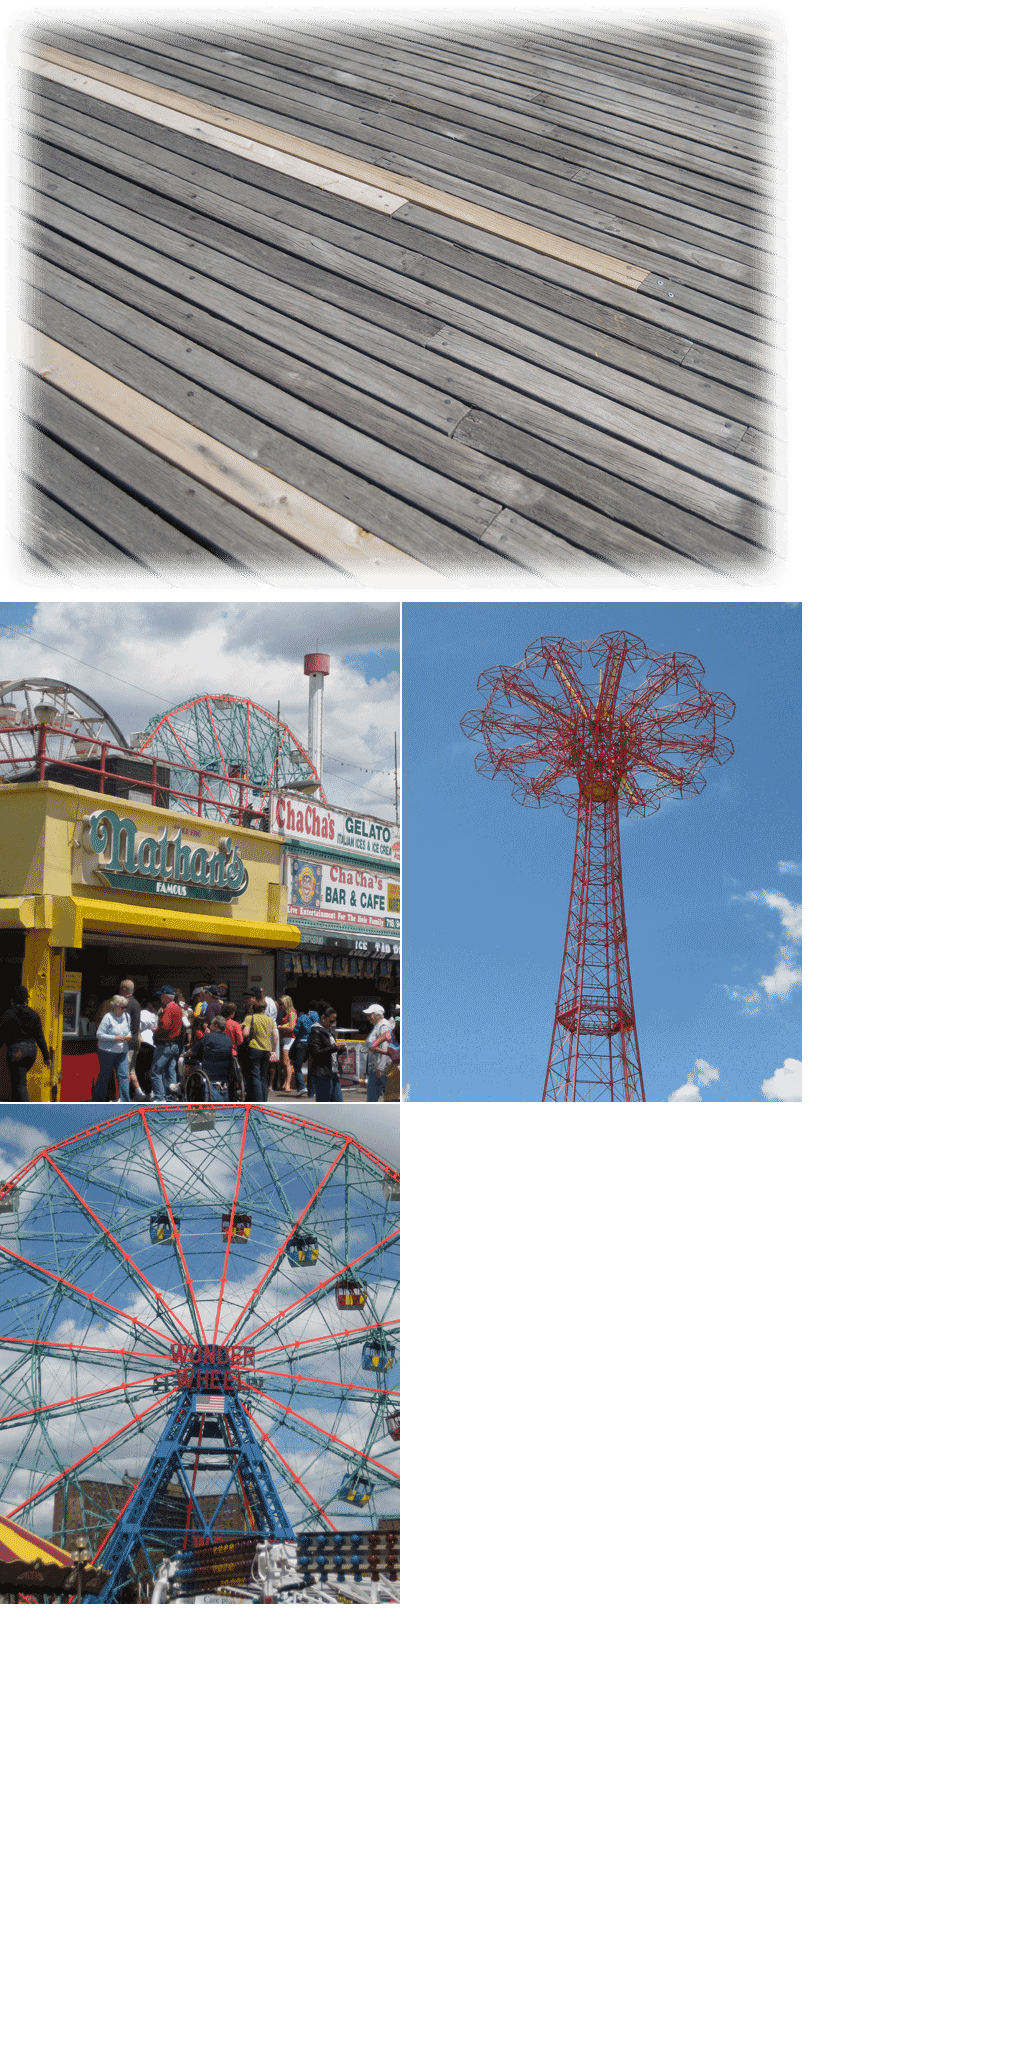
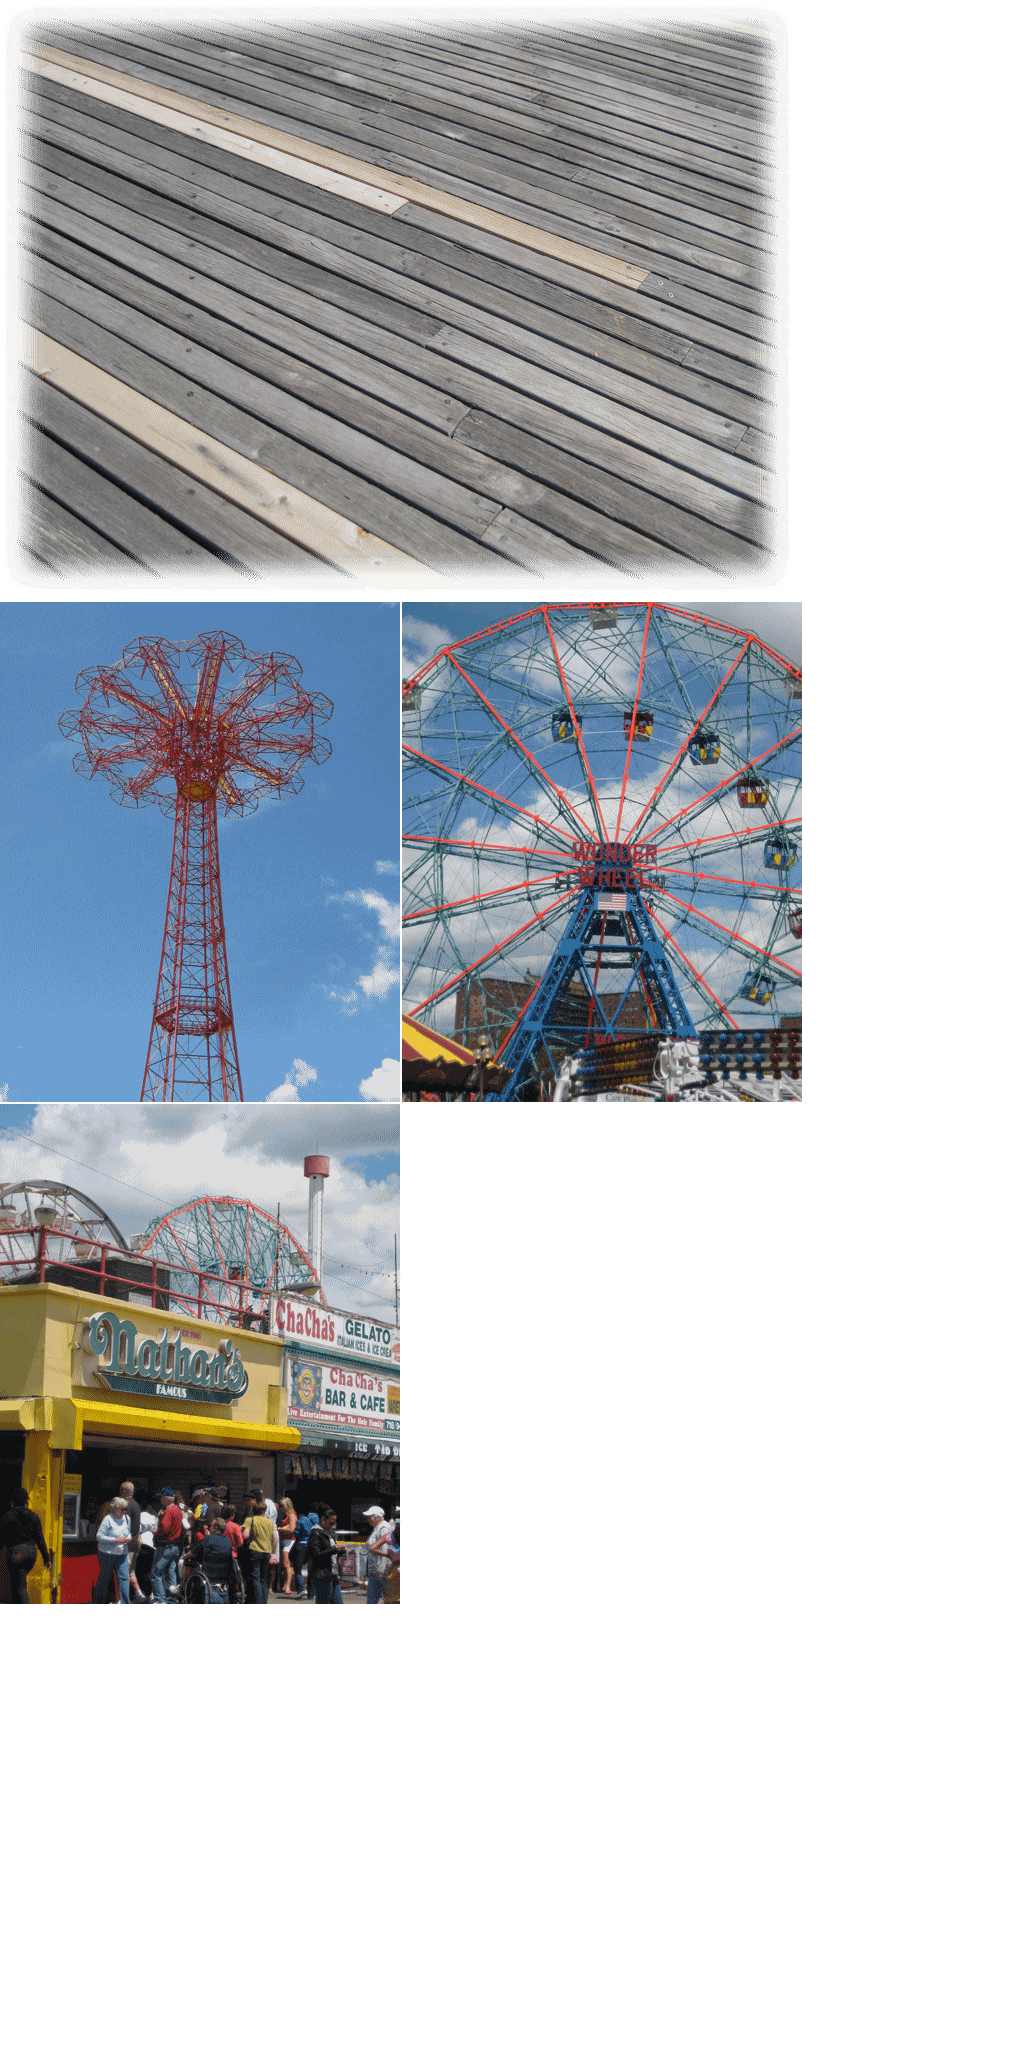
tinkering

diff --git a/Lesson01/01End/01End.js b/Lesson01/01End/01End.js
@@ -1,26 +1,72 @@
-(function (lib, img, cjs, ss) {
+(function (lib, img, cjs, ss, an) {
 
 var p; // shortcut to reference prototypes
-
-// library properties:
-lib.properties = {
-	width: 800,
-	height: 600,
-	fps: 24,
-	color: "#333333",
-	opacity: 1.00,
-	manifest: [
-		{src:"images/01End_atlas_.png?1467061092443", id:"01End_atlas_"}
-	]
-};
-
-
-
+lib.webFontTxtInst = {}; 
+var loadedTypekitCount = 0;
+var loadedGoogleCount = 0;
+var gFontsUpdateCacheList = [];
+var tFontsUpdateCacheList = [];
 lib.ssMetadata = [
-		{name:"01End_atlas_", frames: [[0,0,800,600],[402,602,400,500],[0,602,400,500],[0,1104,400,500]]}
+		{name:"01End_atlas_", frames: [[0,0,800,600],[0,602,400,500],[0,1104,400,500],[402,602,400,500]]}
 ];
 
 
+
+lib.updateListCache = function (cacheList) {		
+	for(var i = 0; i < cacheList.length; i++) {		
+		if(cacheList[i].cacheCanvas)		
+			cacheList[i].updateCache();		
+	}		
+};		
+
+lib.addElementsToCache = function (textInst, cacheList) {		
+	var cur = textInst;		
+	while(cur != exportRoot) {		
+		if(cacheList.indexOf(cur) != -1)		
+			break;		
+		cur = cur.parent;		
+	}		
+	if(cur != exportRoot) {		
+		var cur2 = textInst;		
+		var index = cacheList.indexOf(cur);		
+		while(cur2 != cur) {		
+			cacheList.splice(index, 0, cur2);		
+			cur2 = cur2.parent;		
+			index++;		
+		}		
+	}		
+	else {		
+		cur = textInst;		
+		while(cur != exportRoot) {		
+			cacheList.push(cur);		
+			cur = cur.parent;		
+		}		
+	}		
+};		
+
+lib.gfontAvailable = function(family, totalGoogleCount) {		
+	lib.properties.webfonts[family] = true;		
+	var txtInst = lib.webFontTxtInst && lib.webFontTxtInst[family] || [];		
+	for(var f = 0; f < txtInst.length; ++f)		
+		lib.addElementsToCache(txtInst[f], gFontsUpdateCacheList);		
+
+	loadedGoogleCount++;		
+	if(loadedGoogleCount == totalGoogleCount) {		
+		lib.updateListCache(gFontsUpdateCacheList);		
+	}		
+};		
+
+lib.tfontAvailable = function(family, totalTypekitCount) {		
+	lib.properties.webfonts[family] = true;		
+	var txtInst = lib.webFontTxtInst && lib.webFontTxtInst[family] || [];		
+	for(var f = 0; f < txtInst.length; ++f)		
+		lib.addElementsToCache(txtInst[f], tFontsUpdateCacheList);		
+
+	loadedTypekitCount++;		
+	if(loadedTypekitCount == totalTypekitCount) {		
+		lib.updateListCache(tFontsUpdateCacheList);		
+	}		
+};
 // symbols:
 
 
@@ -59,7 +105,7 @@ lib.ssMetadata = [
 
 	// stars
 	this.shape = new cjs.Shape();
[2 lines of base64/hex data omitted]
 	this.shape.setTransform(386.1,296.8);
 	this.shape._off = true;
 
@@ -67,6 +113,7 @@ lib.ssMetadata = [
 
 	// photo3
 	this.instance = new lib.photo3();
+	this.instance.parent = this;
 	this.instance.setTransform(360,79,1,1,-2);
 	this.instance._off = true;
 
@@ -74,6 +121,7 @@ lib.ssMetadata = [
 
 	// photo2
 	this.instance_1 = new lib.photo2();
+	this.instance_1.parent = this;
 	this.instance_1.setTransform(227.2,20.5,1,1,6);
 	this.instance_1._off = true;
 
@@ -81,17 +129,35 @@ lib.ssMetadata = [
 
 	// photo1
 	this.instance_2 = new lib.photo1();
+	this.instance_2.parent = this;
 	this.instance_2.setTransform(2.4,97.1,1,1,-12);
 
 	this.timeline.addTween(cjs.Tween.get(this.instance_2).wait(48));
 
 	// background
 	this.instance_3 = new lib.background();
+	this.instance_3.parent = this;
 
 	this.timeline.addTween(cjs.Tween.get(this.instance_3).wait(48));
 
 }).prototype = p = new cjs.MovieClip();
 p.nominalBounds = new cjs.Rectangle(400,300,800,600);
+// library properties:
+lib.properties = {
+	width: 800,
+	height: 600,
+	fps: 24,
+	color: "#333333",
+	opacity: 1.00,
+	webfonts: {},
+	manifest: [
+		{src:"images/01End_atlas_.png", id:"01End_atlas_"}
+	],
+	preloads: []
+};
 
-})(lib = lib||{}, images = images||{}, createjs = createjs||{}, ss = ss||{});
-var lib, images, createjs, ss;
+
+
+
+})(lib = lib||{}, images = images||{}, createjs = createjs||{}, ss = ss||{}, AdobeAn = AdobeAn||{});
+var lib, images, createjs, ss, AdobeAn;

diff --git a/Lesson01/01End/01End.html b/Lesson01/01End/01End.html
@@ -1,3 +1,4 @@
+<!DOCTYPE html>
 <!--
 	NOTES:
 	1. All tokens are represented by '$' sign in the template.
@@ -6,7 +7,6 @@
 	4. Blank lines will be removed automatically.
 	5. Remove unnecessary comments before creating your template.
 -->
-<!DOCTYPE html>
 <html>
 <head>
 <meta charset="UTF-8">
@@ -14,11 +14,13 @@
 <title>01End</title>
 <!-- write your code here -->
 <script src="https://code.createjs.com/createjs-2015.11.26.min.js"></script>
-<script src="01End.js?1467061092482"></script>
+<script src="01End.js"></script>
 <script>
-var canvas, stage, exportRoot;
+var canvas, stage, exportRoot, anim_container, dom_overlay_container, fnStartAnimation;
 function init() {
 	canvas = document.getElementById("canvas");
+	anim_container = document.getElementById("animation_container");
+	dom_overlay_container = document.getElementById("dom_overlay_container");
 	images = images||{};
 	ss = ss||{};
 	var loader = new createjs.LoadQueue(false);
@@ -40,17 +42,19 @@ function handleComplete(evt) {
 	stage = new createjs.Stage(canvas);
 	stage.addChild(exportRoot);	
 	//Registers the "tick" event listener.
-	createjs.Ticker.setFPS(lib.properties.fps);
-	createjs.Ticker.addEventListener("tick", stage);	    
+	fnStartAnimation = function() {
+		createjs.Ticker.setFPS(lib.properties.fps);
+		createjs.Ticker.addEventListener("tick", stage);
+	}	    
 	//Code to support hidpi screens and responsive scaling.
-	(function(isResp, respDim, isScale, scaleType) {		
+	function makeResponsive(isResp, respDim, isScale, scaleType) {		
 		var lastW, lastH, lastS=1;		
 		window.addEventListener('resize', resizeCanvas);		
 		resizeCanvas();		
 		function resizeCanvas() {			
 			var w = lib.properties.width, h = lib.properties.height;			
 			var iw = window.innerWidth, ih=window.innerHeight;			
-			var pRatio = window.devicePixelRatio, xRatio=iw/w, yRatio=ih/h, sRatio=1;			
+			var pRatio = window.devicePixelRatio || 1, xRatio=iw/w, yRatio=ih/h, sRatio=1;			
 			if(isResp) {                
 				if((respDim=='width'&&lastW==iw) || (respDim=='height'&&lastH==ih)) {                    
 					sRatio = lastS;                
@@ -68,18 +72,24 @@ function handleComplete(evt) {
 			}			
 			canvas.width = w*pRatio*sRatio;			
 			canvas.height = h*pRatio*sRatio;
-			canvas.style.width = w*sRatio+'px';			
-			canvas.style.height = h*sRatio+'px';
+			canvas.style.width = dom_overlay_container.style.width = anim_container.style.width =  w*sRatio+'px';				
+			canvas.style.height = anim_container.style.height = dom_overlay_container.style.height = h*sRatio+'px';
 			stage.scaleX = pRatio*sRatio;			
 			stage.scaleY = pRatio*sRatio;			
 			lastW = iw; lastH = ih; lastS = sRatio;		
 		}
-	})(false,'both',false,1);	
+	}
+	makeResponsive(false,'both',false,1);	
+	fnStartAnimation();
 }
 </script>
 <!-- write your code here -->
 </head>
 <body onload="init();" style="margin:0px;">
-	<canvas id="canvas" width="800" height="600" style="display: block; background-color:rgba(51, 51, 51, 1.00)"></canvas>
+	<div id="animation_container" style="background-color:rgba(51, 51, 51, 1.00); width:800px; height:600px">
+		<canvas id="canvas" width="800" height="600" style="position: absolute; display: block; background-color:rgba(51, 51, 51, 1.00);"></canvas>
+		<div id="dom_overlay_container" style="pointer-events:none; overflow:hidden; width:800px; height:600px; position: absolute; left: 0px; top: 0px; display: block;">
+		</div>
+	</div>
 </body>
 </html>
